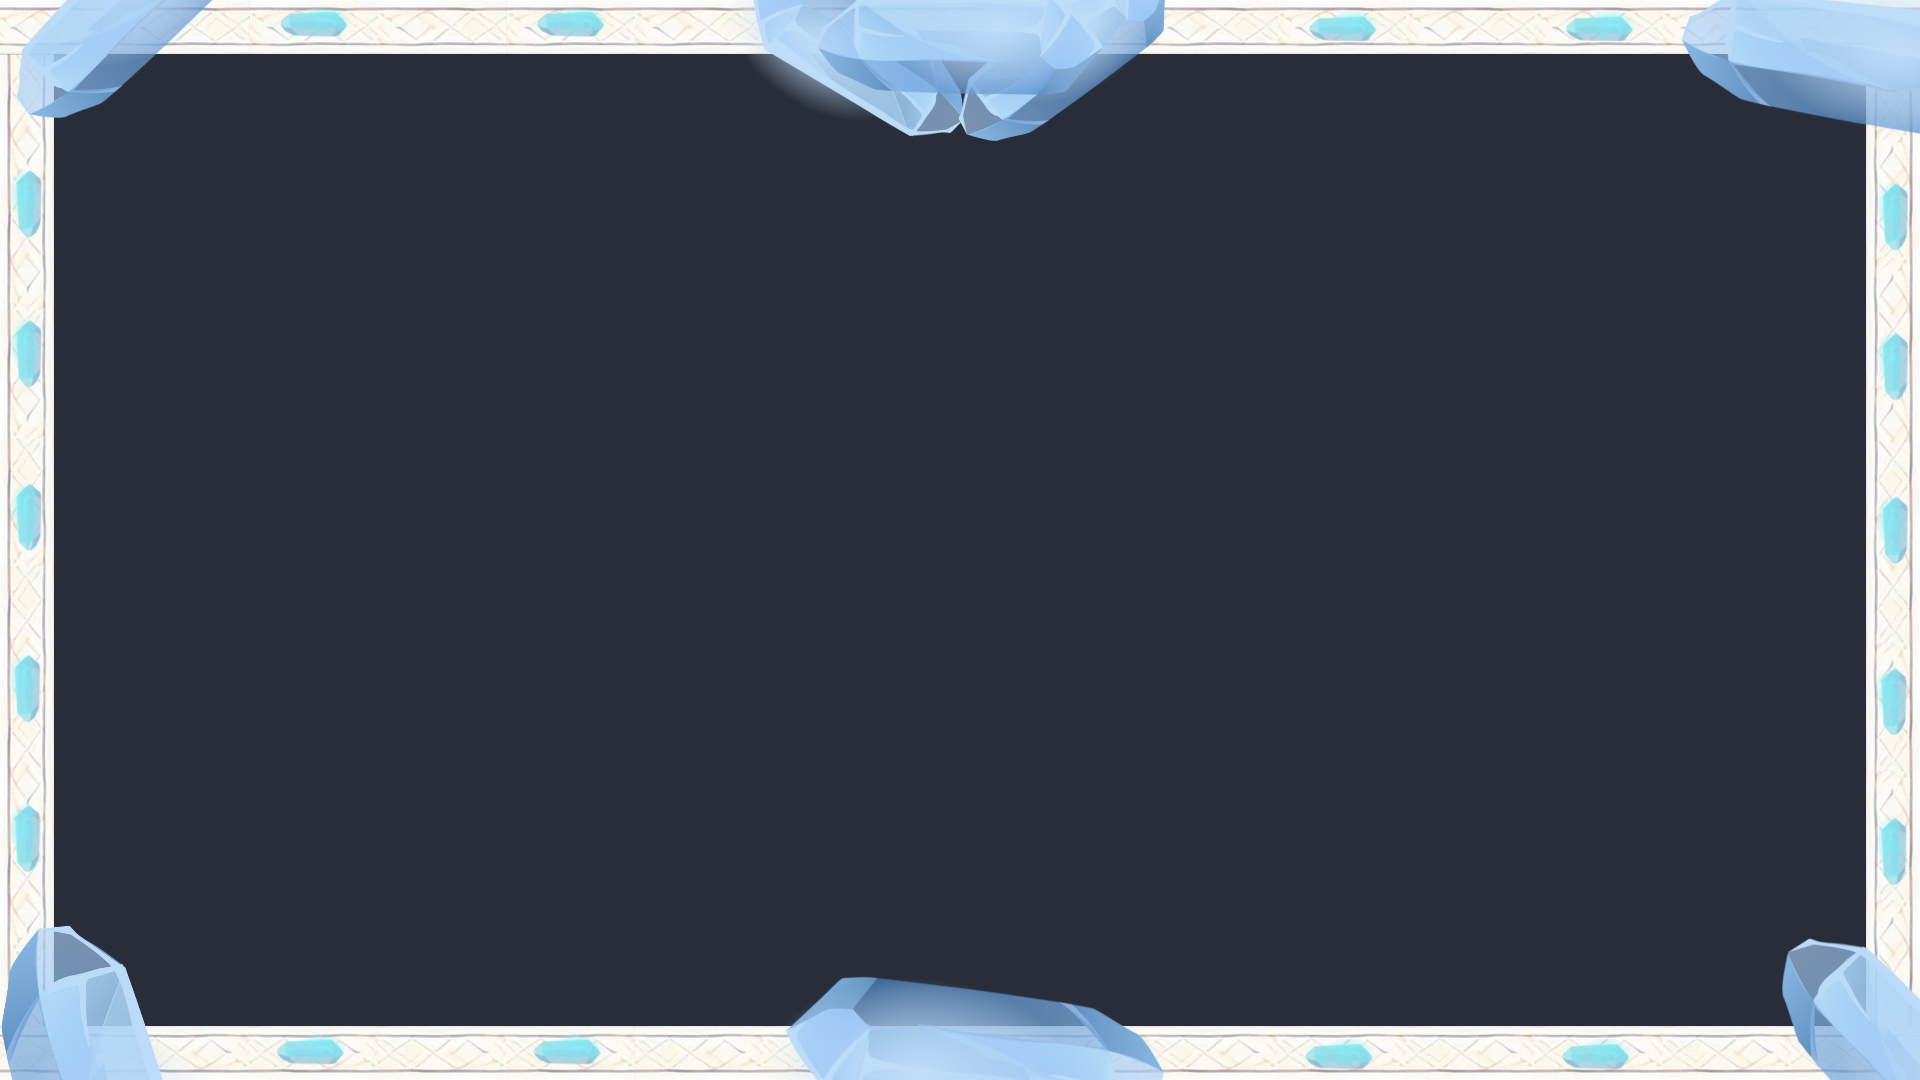
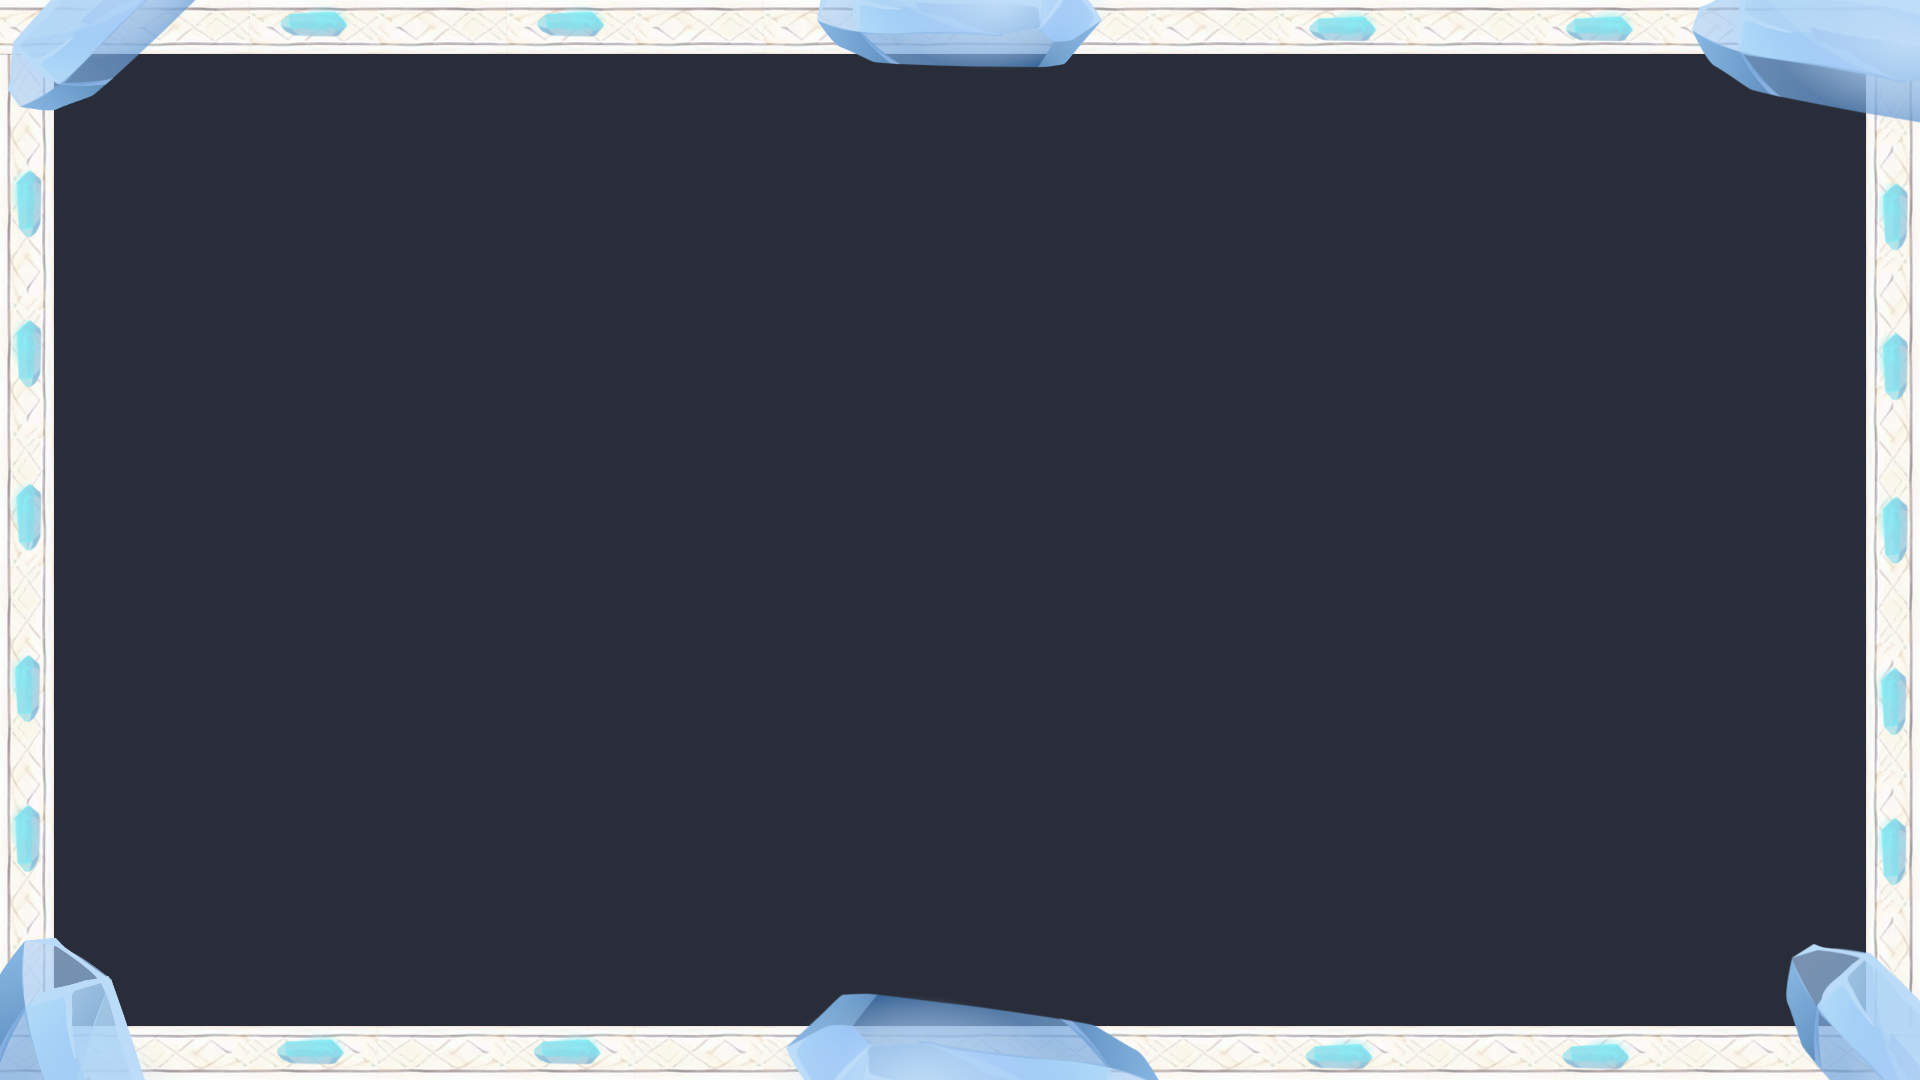
Promjenjena boja padding frame-a, maknuti nepotrebni duplicirani gumbovi, promjenjena pozadina

diff --git a/app.py b/app.py
@@ -257,7 +257,7 @@ class Application(tk.Tk):
         self.bg_label.place(x=0, y=0, relwidth=1, relheight=1)
         self.bg_label.image = self.bg_image
         
-        padding_frame = tk.Frame(self, height=10, width=1, bg=self["background"])
+        padding_frame = ttk.Frame(self, style="Custom.TFrame", height=10, width=1)
         padding_frame.pack(side="top", pady=65)
 
         # Glavni frame koji drži sve
@@ -282,10 +282,6 @@ class Application(tk.Tk):
 
         btn_run = ttk.Button(button_frame1, text="Run game", command=self.on_run, style="Custom.TButton")
         btn_run.pack(side="left", padx=5)
-
-        
-        ttk.Button(self, text="OK", command=self.on_ok, style="Custom.TButton").pack(side="top", padx=(50, 5))
-        ttk.Button(self, text="Run game", command=self.on_run, style="Custom.TButton").pack(side="top", padx=5)
         
         self.create_option_frame("Backgrounds", self.selected_scene, self.config_data['Backgrounds'], "*.png")
         self.create_check_frame("Characters", self.selected_show, self.config_data['Characters'])
